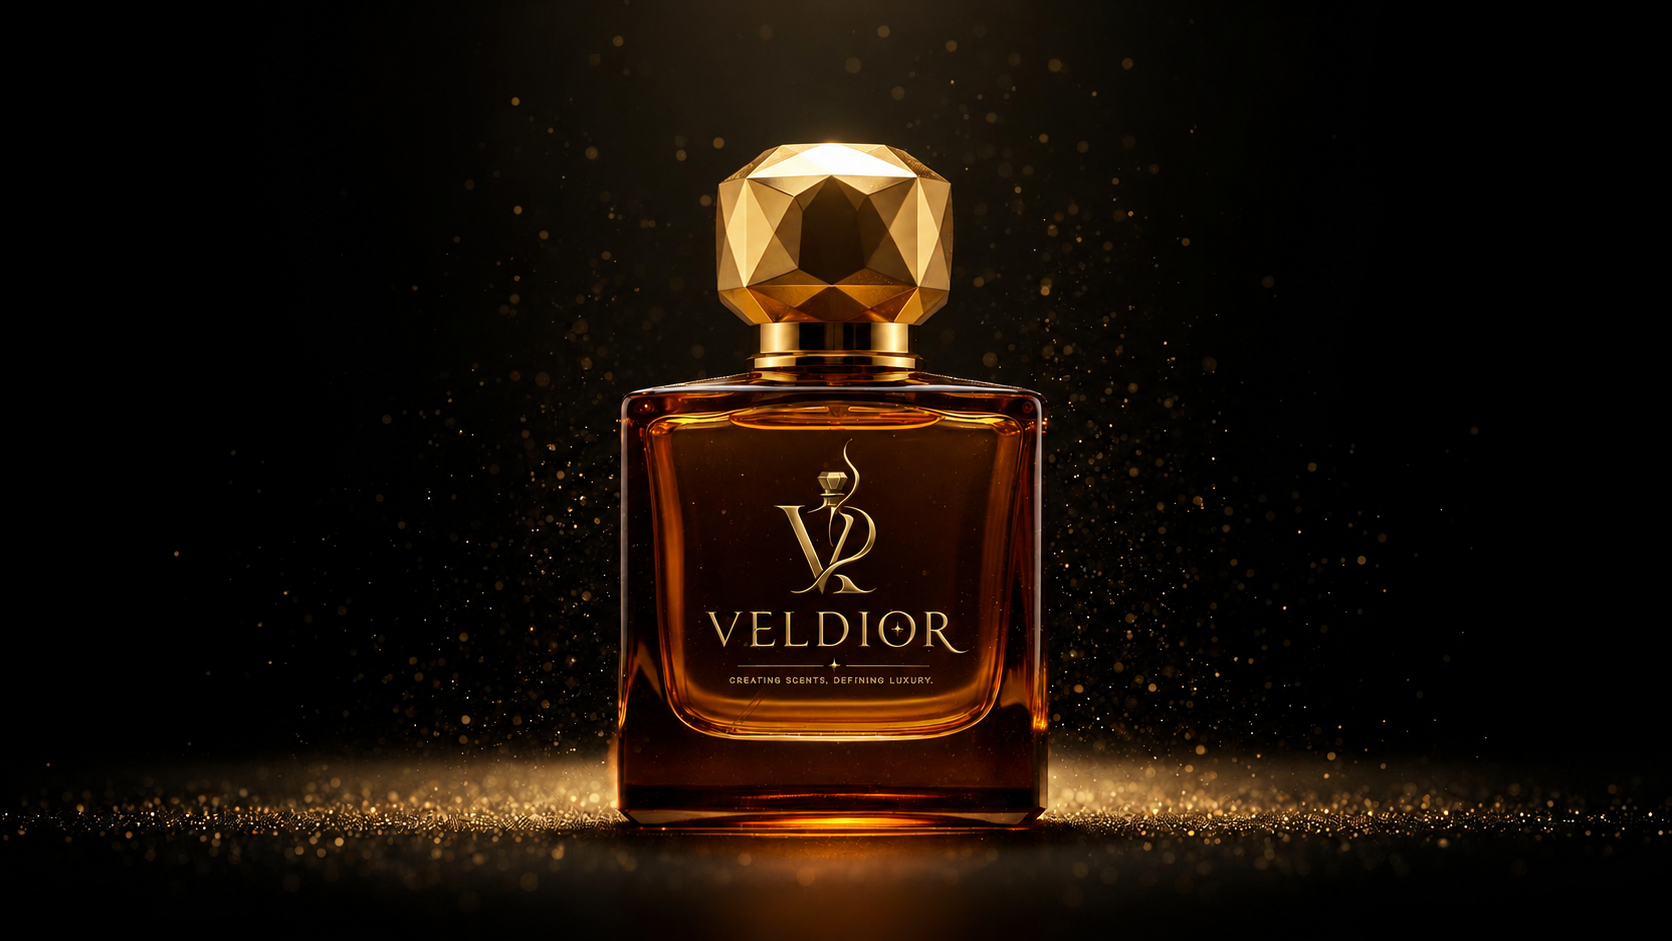
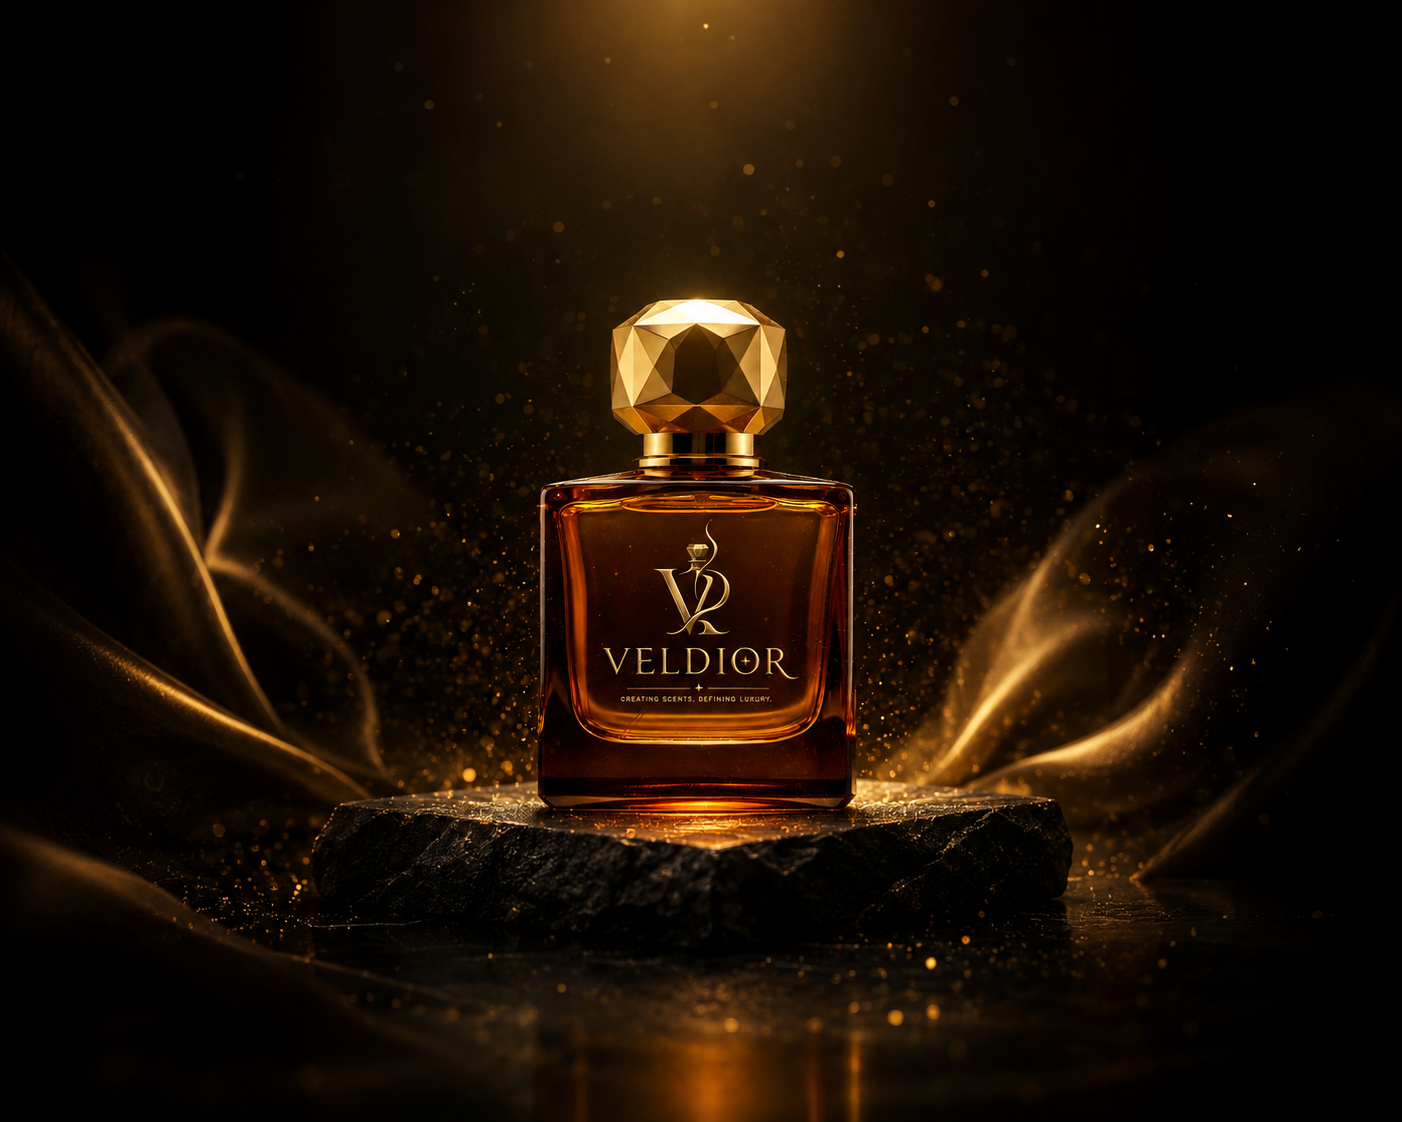
image changed

diff --git a/src/data/products.ts b/src/data/products.ts
@@ -17,58 +17,31 @@ export interface Product {
 
 export const products: Product[] = [
   {
-    id: "ember-noir",
-    name: "Ember Noir",
-    tagline: "Smoked oud & burnt amber",
-    notes: "Oud · Amber · Saffron · Leather",
-    price: 240,
+    id: "oud-and-roses",
+    name: "Oud and Rose",
+    tagline: "Oud and Rose",
+    notes: "Oud · Rose",
+    price: 1999,
     image: p1,
     family: "Oriental",
   },
   {
-    id: "rose-imperiale",
-    name: "Rose Impériale",
-    tagline: "Bulgarian rose, drenched in honey",
-    notes: "Rose · Honey · Patchouli · Musk",
-    price: 285,
+    id: "orvane",
+    name: "Orvane",
+    tagline: "Orvane",
+    notes: "Orvane",
+    price: 1299,
     image: p2,
-    family: "Floral",
+    family: "Fresh",
   },
   {
-    id: "obsidian",
-    name: "Obsidian",
-    tagline: "Tobacco leaf at midnight",
-    notes: "Tobacco · Vanilla · Cedar · Vetiver",
-    price: 320,
+    id: "lavender",
+    name: "Lavender",
+    tagline: "Lavender",
+    notes: "Lavender",
+    price: 799,
     image: p3,
-    family: "Woody",
-  },
-  {
-    id: "soleil-dore",
-    name: "Soleil Doré",
-    tagline: "Sunlit bergamot & white tea",
-    notes: "Bergamot · White Tea · Iris · Cashmeran",
-    price: 195,
-    image: p4,
-    family: "Fresh",
-  },
-  {
-    id: "verde-eterno",
-    name: "Verde Eterno",
-    tagline: "Crushed fig leaves & green cardamom",
-    notes: "Fig · Cardamom · Galbanum · Sandalwood",
-    price: 220,
-    image: p5,
-    family: "Woody",
-  },
-  {
-    id: "nuit-bleue",
-    name: "Nuit Bleue",
-    tagline: "Salted iris under a moonlit sea",
-    notes: "Iris · Sea Salt · Ambergris · Musk",
-    price: 265,
-    image: p6,
-    family: "Fresh",
+    family: "Floral",
   },
 ];
 